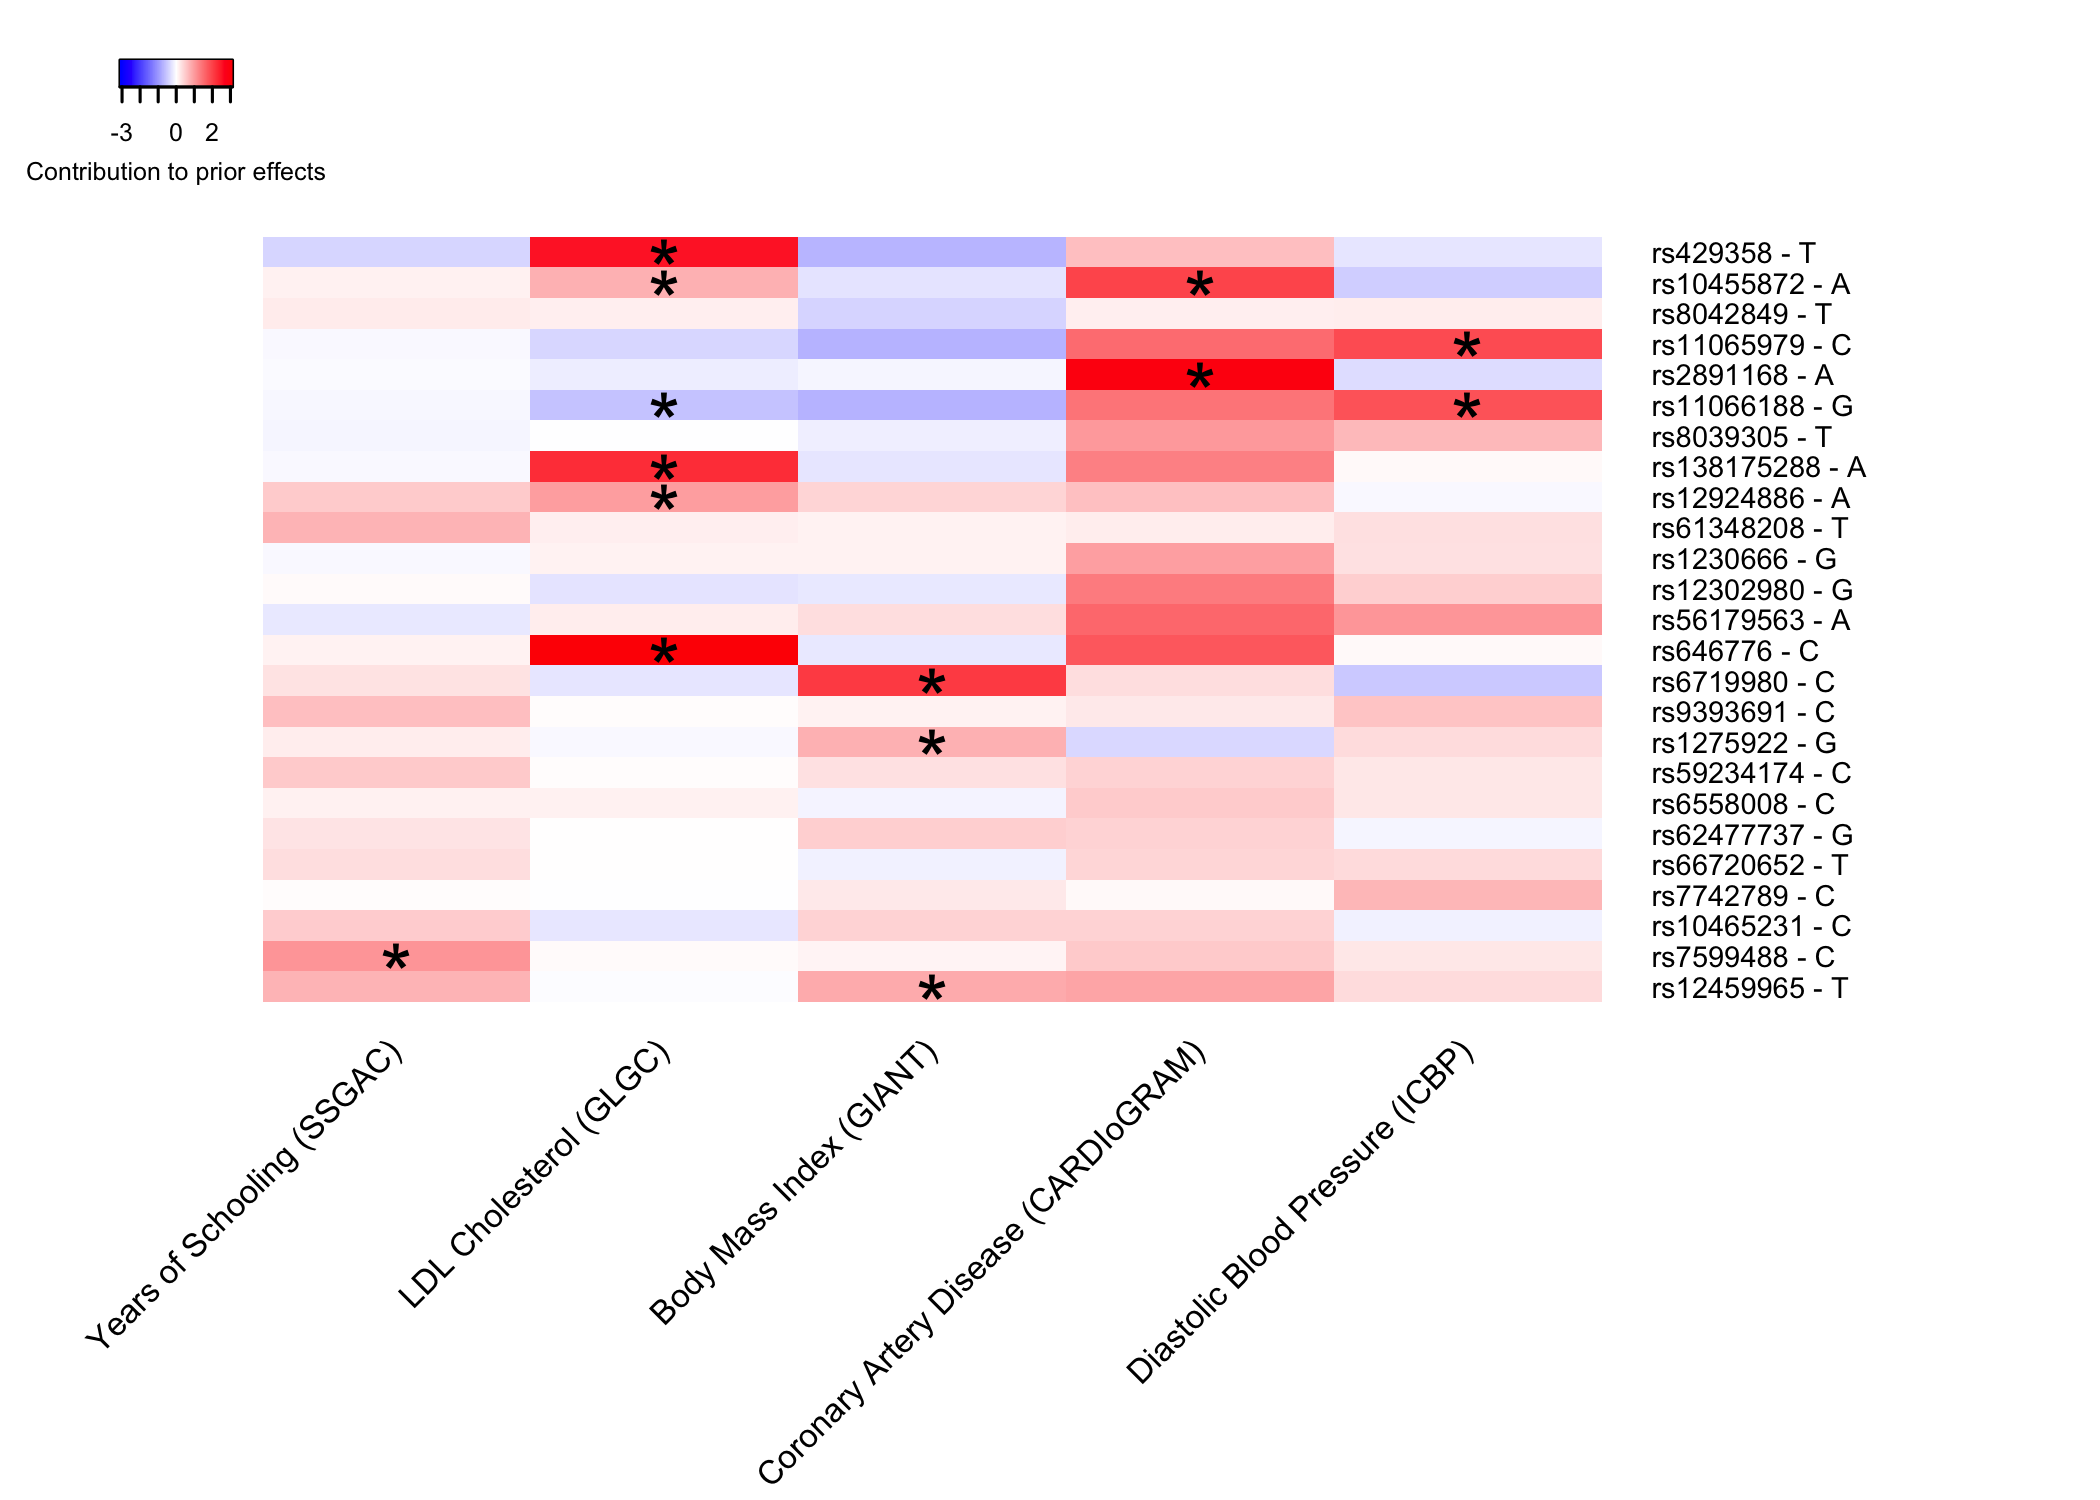
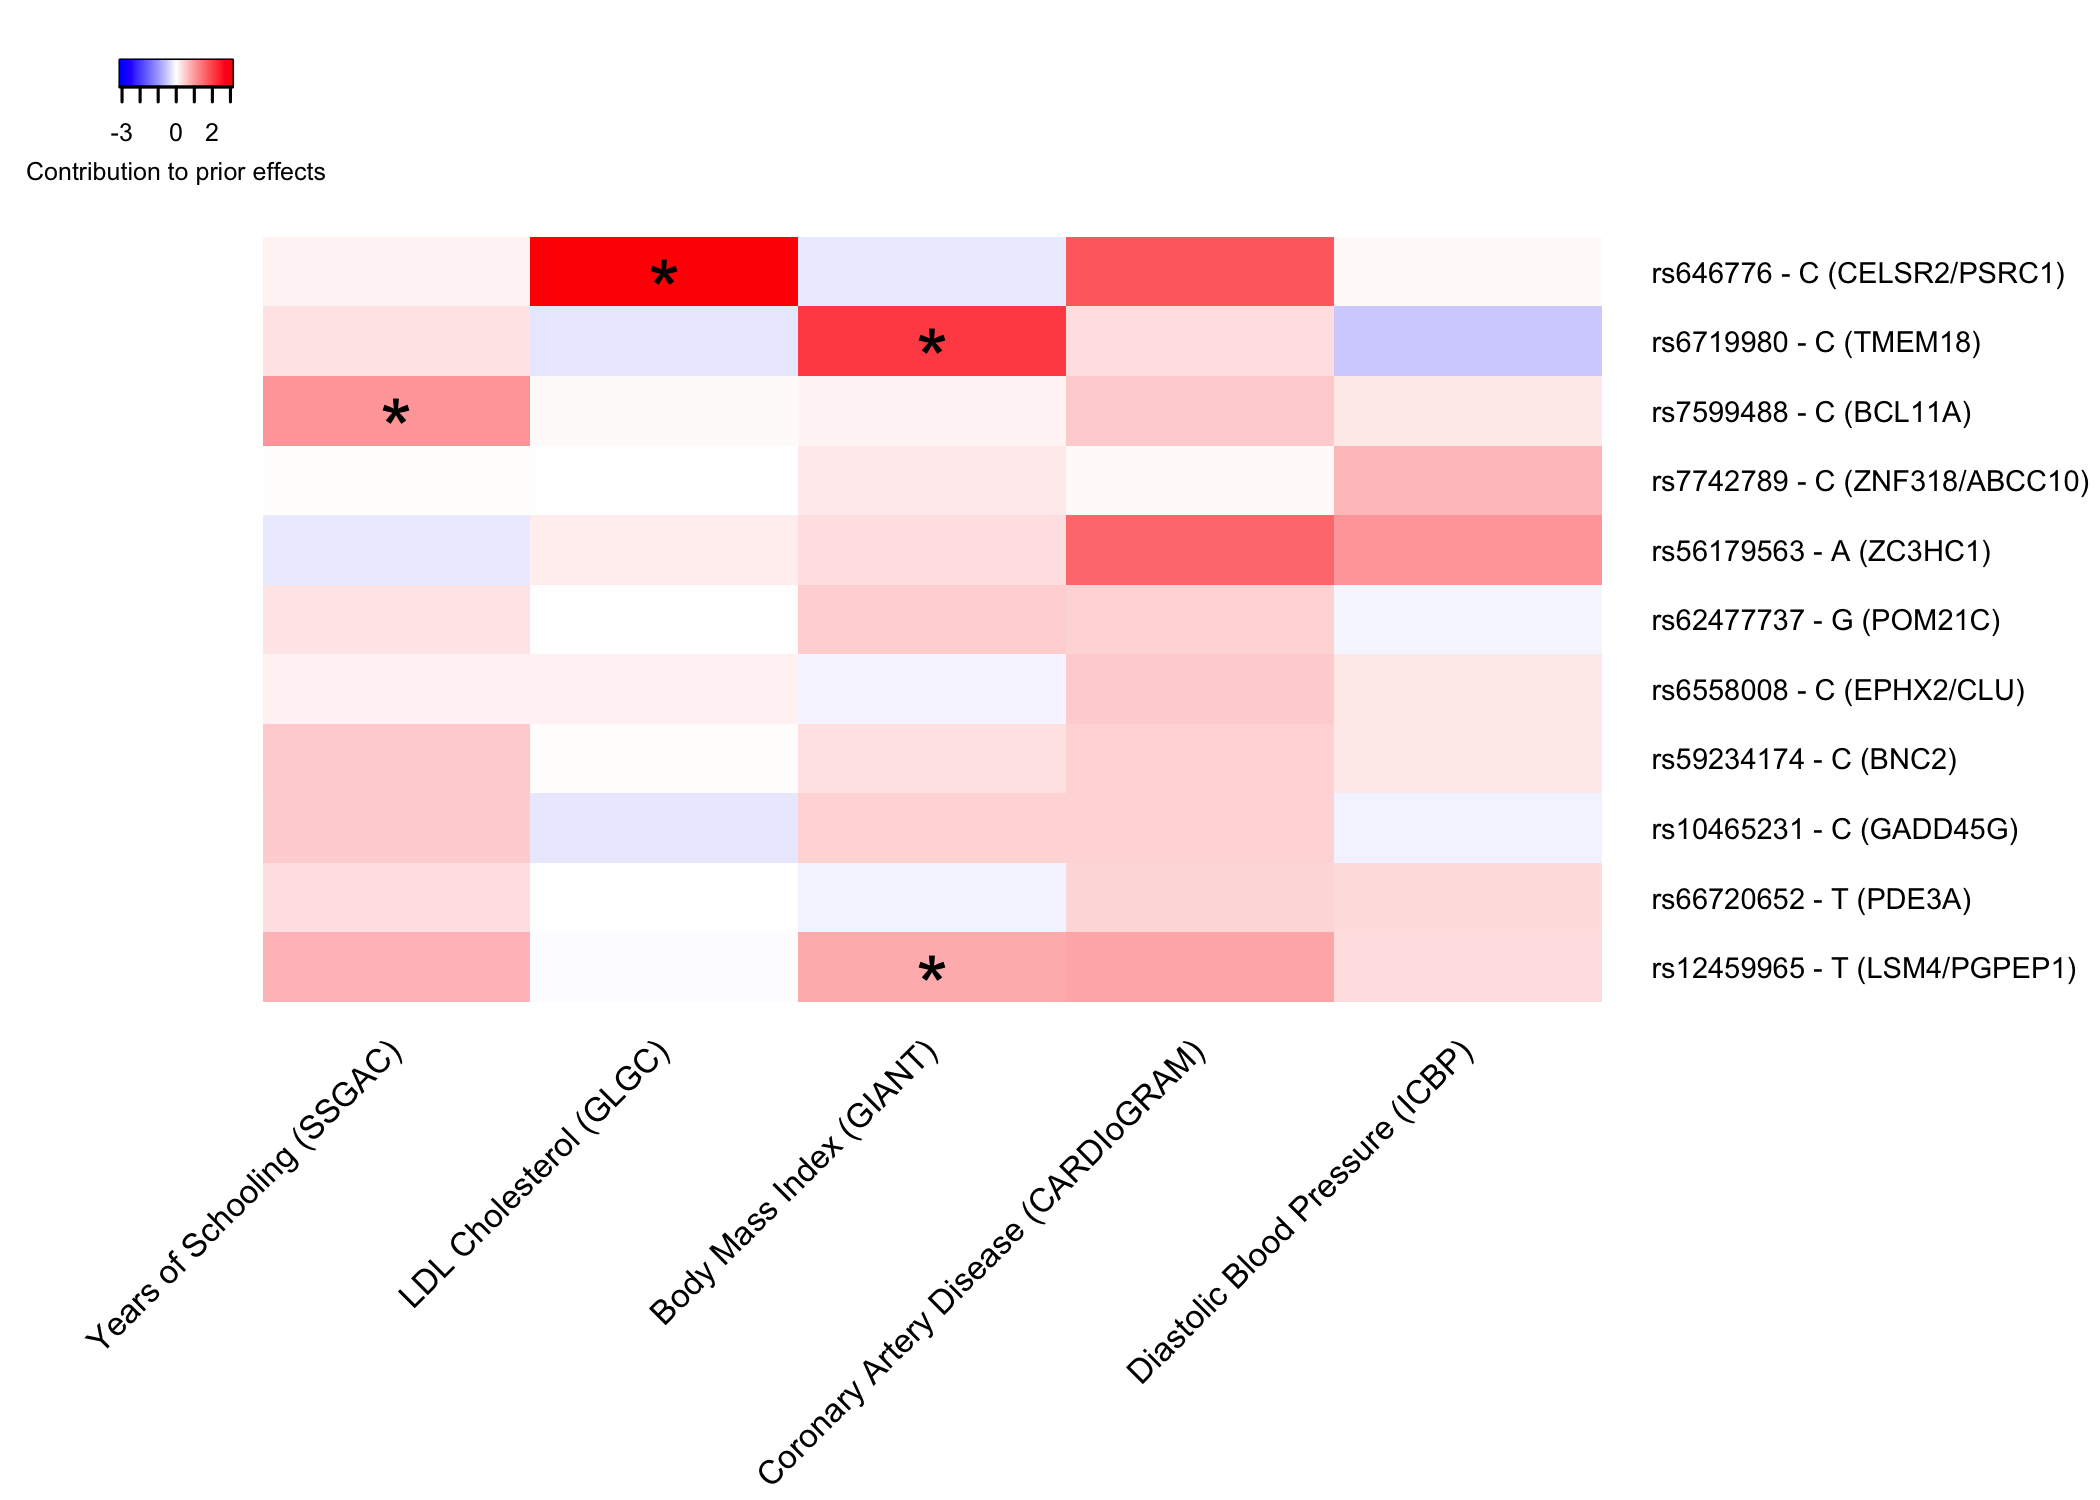
Update Lifespan analysis

Changed region(s): [[0.1238, 0.1533, 0.9905, 0.6747], [0.1238, 0.5827, 0.2786, 0.6747]]

diff --git a/doc/Lifespan_Analysis.md b/doc/Lifespan_Analysis.md
@@ -5,7 +5,7 @@ In this example, we will use the data from Timmers et al to apply our
 Bayesian GWAS approach to study lifespan.  
 Here, we assume that the `bGWAS` package is already installed, that the
 Z-matrix files have already been downloaded and stored in
-“\~/ZMatrices”. If that is not the case, please follow the steps
+`"~/ZMatrices"`. If that is not the case, please follow the steps
 described [here](../README.md).
 
 ``` r
@@ -13,17 +13,14 @@ library(bGWAS) # bGWAS github version:
 
 # Download data to working directory (~460 MB) if not already here
 if(!file.exists("lifegen_phase2_bothpl_alldr_2017_09_18.tsv.gz")) download.file(url = "https://datashare.is.ed.ac.uk/bitstream/handle/10283/3209/lifegen_phase2_bothpl_alldr_2017_09_18.tsv.gz?sequence=1&isAllowed=y", destfile = "lifegen_phase2_bothpl_alldr_2017_09_18.tsv.gz")
-
-Lifespan_Timmers2019 = "lifegen_phase2_bothpl_alldr_2017_09_18.tsv.gz"
 ```
 
 Now that we have the data in our working directory, we can launch the
-analysis (with default parameters **the default parameters might change
-depending on the different settings results**):
+analysis (with default parameters):
 
 ``` r
 Lifespan_bGWAS = bGWAS(name = "Lifespan_Timmers2019",
-                       GWAS = Lifespan_Timmers2019)
+                       GWAS = "lifegen_phase2_bothpl_alldr_2017_09_18.tsv.gz")
 ```
 
     ## <<< Preparation of analysis >>> 
@@ -310,9 +307,9 @@ Lifespan_bGWAS = bGWAS(name = "Lifespan_Timmers2019",
     ## 2 SNPs left 
     ## Done! 
     ## <><><><><><><><><><><><><><><><><><><><><><><><><><><><><><><><><><><><><><><><><><><><>
-    ## Time of the analysis: 23 minute(s) and 38 second(s).
+    ## Time of the analysis: 34 minute(s) and 1 second(s).
 
-We can look at the results more in details.
+We can now look at the results more in details.
 
 ## Prior GWASs used
 
@@ -322,11 +319,11 @@ coefficients_plot_bGWAS(Lifespan_bGWAS)
 
 <img src="Figures/Lifespan_v1.0.0-results1-1.png" width="100%" />
 
-5 prior GWASs are used to create the prior, the multivariate causal
-effect estimates are consistent with what we would expect. On this
-figure, the multivariate causal effect estimate and the 95% interval
-from the multivariate MR model using all chromosomes (black dot and
-bars) as well as the 22 per-chromosome estimates (grey bars) are
+5 prior GWASs (risk factors) are used to create the prior, the
+multivariate causal effect estimates are consistent with what we would
+expect. On this figure, the multivariate causal effect estimate and the
+95% interval from the multivariate MR model using all chromosomes (black
+dot and bars) as well as the 22 per-chromosome estimates (grey bars) are
 represented for each prior GWASs. Coronary Artery Disease (CAD) has the
 strongest negative effect on lifespan. High Diastolic Blood Pressure
 (DBP) and Body Mass Index (BMI) also decreases lifespan. We can also see
@@ -336,11 +333,14 @@ positive effect on lifespan.
 Overall, the squared correlation between prior and observed effects is
 about 0.038 and goes up to 0.377 when we consider only SNPs having at
 least a moderate effect on lifespan (observed p-value \< 0.001).  
-Using the previous version (Timmers et al), squared correlation was: 
+Using the previous version (Timmers et al), squared correlation was
+around 0.003 when considering all SNPs and around 0.082 for SNPs having
+a moderate effect.
 
 ## Results - BF
 
-With this approach, we identified 25:
+With this approach, we identified 25 SNPs affecting lifespan through the
+identified risk factors:
 
 ``` r
 # all hits
@@ -379,33 +379,37 @@ knitr::kable(extract_results_bGWAS(Lifespan_bGWAS) %>% mutate(BF = as.character(
 # new hits (compared to conventional GWAS)
 extract_results_bGWAS(Lifespan_bGWAS) %>%
   mutate(obs_p = 2*pnorm(-abs(z_obs))) %>%
-  filter(obs_p>5e-8) -> NEW
-knitr::kable(NEW %>% mutate(BF = as.character(format(BF, scientific=T, digits=3)), BF_p = as.character(format(BF_p, scientific=T, digits=3))), digits=3)
+  filter(obs_p>5e-8) %>% 
+  arrange(chrm_UK10K) -> New_Hits
+knitr::kable(New_Hits %>% mutate(BF = as.character(format(BF, scientific=T, digits=3)), BF_p = as.character(format(BF_p, scientific=T, digits=3))), digits=3)
 ```
 
 | rsid       | chrm\_UK10K | pos\_UK10K | alt | ref |  z\_obs | mu\_prior\_estimate | mu\_prior\_std\_error | BF       | BF\_p    | obs\_p |
 | :--------- | ----------: | ---------: | :-- | :-- | ------: | ------------------: | --------------------: | :------- | :------- | -----: |
-| rs56179563 |           7 |  129685597 | A   | G   |   5.190 |               2.881 |                 1.165 | 1.49e+05 | 3.14e-10 |      0 |
 | rs646776   |           1 |  109818530 | T   | C   | \-4.908 |             \-4.822 |                 1.236 | 1.07e+05 | 5.36e-10 |      0 |
 | rs6719980  |           2 |     651507 | T   | C   | \-5.407 |             \-1.906 |                 1.143 | 1.03e+05 | 5.66e-10 |      0 |
-| rs59234174 |           9 |   16730258 | T   | C   | \-5.127 |             \-1.492 |                 1.107 | 1.76e+04 | 9.90e-09 |      0 |
-| rs6558008  |           8 |   27438306 | A   | C   | \-5.424 |             \-0.890 |                 1.106 | 1.61e+04 | 1.14e-08 |      0 |
-| rs62477737 |           7 |   75162278 | A   | G   | \-5.269 |             \-1.088 |                 1.110 | 1.43e+04 | 1.39e-08 |      0 |
-| rs66720652 |          12 |   20582640 | A   | T   | \-5.347 |             \-0.937 |                 1.110 | 1.38e+04 | 1.46e-08 |      0 |
-| rs7742789  |           6 |   43345803 | T   | C   | \-5.299 |             \-0.984 |                 1.110 | 1.30e+04 | 1.63e-08 |      0 |
-| rs10465231 |           9 |   92183413 | T   | C   | \-5.156 |             \-0.985 |                 1.109 | 8.00e+03 | 3.58e-08 |      0 |
 | rs7599488  |           2 |   60718347 | T   | C   | \-4.663 |             \-1.956 |                 1.114 | 6.86e+03 | 4.60e-08 |      0 |
+| rs7742789  |           6 |   43345803 | T   | C   | \-5.299 |             \-0.984 |                 1.110 | 1.30e+04 | 1.63e-08 |      0 |
+| rs56179563 |           7 |  129685597 | A   | G   |   5.190 |               2.881 |                 1.165 | 1.49e+05 | 3.14e-10 |      0 |
+| rs62477737 |           7 |   75162278 | A   | G   | \-5.269 |             \-1.088 |                 1.110 | 1.43e+04 | 1.39e-08 |      0 |
+| rs6558008  |           8 |   27438306 | A   | C   | \-5.424 |             \-0.890 |                 1.106 | 1.61e+04 | 1.14e-08 |      0 |
+| rs59234174 |           9 |   16730258 | T   | C   | \-5.127 |             \-1.492 |                 1.107 | 1.76e+04 | 9.90e-09 |      0 |
+| rs10465231 |           9 |   92183413 | T   | C   | \-5.156 |             \-0.985 |                 1.109 | 8.00e+03 | 3.58e-08 |      0 |
+| rs66720652 |          12 |   20582640 | A   | T   | \-5.347 |             \-0.937 |                 1.110 | 1.38e+04 | 1.46e-08 |      0 |
 | rs12459965 |          19 |   18452195 | T   | C   |   4.426 |               2.781 |                 1.121 | 6.55e+03 | 4.96e-08 |      0 |
 
 11 of them are missed by the conventional GWAS (using same p-value
 threshold of 5e-8 to call significance).  
-Using the previous version (Timmers et al), we identified… 
+Using the previous version (Timmers et al), we identified 7 new variants
+(using a threshold of 2.5e-8 for both GWAS and bGWAS results). Using a
+threshold of 5e-8 would have resulted
 
 ``` r
 # For the plots, we will use only the new hits
-my_SNPs = tibble(
-        rs = c("rs646776", "rs6719980", "rs7599488", "rs7742789", "rs56179563", "rs62477737", "rs6558008", "rs59234174", "rs10465231", "rs66720652", "rs12459965"),
-        gene = c("CELSR2/PSRC1", "TMEM18", "BCL11A", "ZNF318/ABCC10", "ZC3HC1", "POM21C", "EPHX2/CLU", "BNC2", "GADD45G", "PDE3A", "LSM4/PGPEP1"))
+New_Hits %>% 
+  transmute(rs=rsid,
+        gene = c("CELSR2/PSRC1", "TMEM18", "BCL11A", "ZNF318/ABCC10", "ZC3HC1", "POM21C", "EPHX2/CLU", "BNC2", "GADD45G", "PDE3A", "LSM4/PGPEP1"),
+        color="#932735") -> my_SNPs
 
 manhattan_plot_bGWAS(Lifespan_bGWAS, SNPs=my_SNPs)
 ```
@@ -414,21 +418,58 @@ manhattan_plot_bGWAS(Lifespan_bGWAS, SNPs=my_SNPs)
 
 ``` r
 my_SNPs %>%
-  mutate(color="#932735") -> my_SNPs
-heatmap_bGWAS(Lifespan_bGWAS)
+  mutate(color=NULL) -> my_SNPs
+heatmap_bGWAS(Lifespan_bGWAS, SNPs = my_SNPs)
 ```
 
 <img src="Figures/Lifespan_v1.0.0-results4-1.png" width="100%" />
 
-Overall, lot of red (makes sense, SNPs aligned to be life-lengthening,
-we expect positive contributions to prior). Among these 11 new variants,
-4 were known to be associated with at least one of the RFs (variant near
+On this figure, the contribution of each risk factor to the prior
+effects of new hits (alleles aligned to be life-lengthening) is
+represented as a heatmap. Overall, we observe a lot of red, as expected
+since alleles are aligned to be life-lengthening.  
+Among these 11 new variants, 4 were known to be associated with at least
+one of the RFs (indicated with a star on the heatmap - variant near
 CELSR2/PSRC1 associated with LDL cholesterol, variants near TMEM18 and
 LSM4/PGPEP1 associated with Body Mass Index, variant near BCL11A
 associated with Years of Schooling). 7 variants (near ZNF318, ZC3HC1,
-POM21C, EPHX2/CLU, BNC2, GADD45G and PDE3A) have not been previously
-associated with any of the RFs, suggesting that they could be acting on
-lifespan through smaller pleiotropic effects on several RFs
+POM21C, EPHX2/CLU, BNC2, GADD45G and PDE3A) are not associated with any
+of the RFs (at least not in the summary statistics used to create the
+prior), suggesting that they could be acting on lifespan through smaller
+pleiotropic effects on several RFs.  
+These variants can be further investigated using the [GWAS
+Catalog](https://www.ebi.ac.uk/gwas/) and looking at SNPs in 500kb
+region, using [LDlink](https://ldlink.nci.nih.gov/) to get R2 estimates
+in EUR population.  
+**ZNF318**:  
+\- a variant in LD (R2=0.8401), rs2270860, associated with “Diastolic
+blood pressure (cigarette smoking interaction)” in [this
+paper](https://www.ncbi.nlm.nih.gov/pubmed/26390057)  
+\- a variant in LD (R2=0.8978), rs16896398, associated with “DBP” in a
+recent GWAS using Japanese population
+[here](https://www.ncbi.nlm.nih.gov/pubmed/29403010)  
+**ZC3HC1**  
+\- a variant in LD (R2=0.8661), rs11556924, associated with “CAD” in a
+recent GWAS using UKBB
+[here](https://www.ncbi.nlm.nih.gov/pubmed/29212778)  
+**POM21C**  
+\- two variants in LD (R2=0.1782), rs58862095, associated with “BMI” in
+a recent GWAS using UKBB
+[here](https://www.ncbi.nlm.nih.gov/pubmed/30595370)  
+\- a variant in LD (R2=0.1947), rs1167827, associated with “Education
+Attainment” in a recent GWAS
+[here](https://www.ncbi.nlm.nih.gov/pubmed/30038396) and with “BMI” in
+[this paper](https://www.ncbi.nlm.nih.gov/pubmed/26426971)  
+**EPHX2/CLU**  
+\- none of the risk factors  
+**BNC2**  
+\- a variant in LD (R2=0.7988), rs10962547, associated with “BMI” in a
+recent GWAS using UKBB
+[here](https://www.ncbi.nlm.nih.gov/pubmed/30595370)  
+**GADD45G**  
+\- none of the risk factors  
+**PDE3A**  
+\- none of the risk factors
 
 ## Results - Direct Effects
 
@@ -444,5 +485,9 @@ knitr::kable(extract_results_bGWAS(Lifespan_bGWAS, results="direct")  %>% mutate
 | rs429358  |          19 |   45411941 | T   | C   | 19.328 |               17.473 |                  1.575 |    11.093 | 1.36e-28  |
 | rs8042849 |          15 |   78817929 | T   | C   | 10.659 |               10.395 |                  1.490 |     6.976 | 3.04e-12  |
 
-APOE (highly pleiotropic, not capturing everything) + CHRNA (smoking not
-included)
+Here, two variants (rs429358 near APOE and rs8042849 near HYKK/CHRNA3/5)
+have a significant corrected effect. This is expected since APOE is
+known to be highly pleiotropic and to notably have an affect on
+Alzheimer disease, not used to create the prior. The second variant is
+not associated with any of the risk factor, and therefore its prior
+effect (0.265) is very small compared to its observed effect (10.659).
